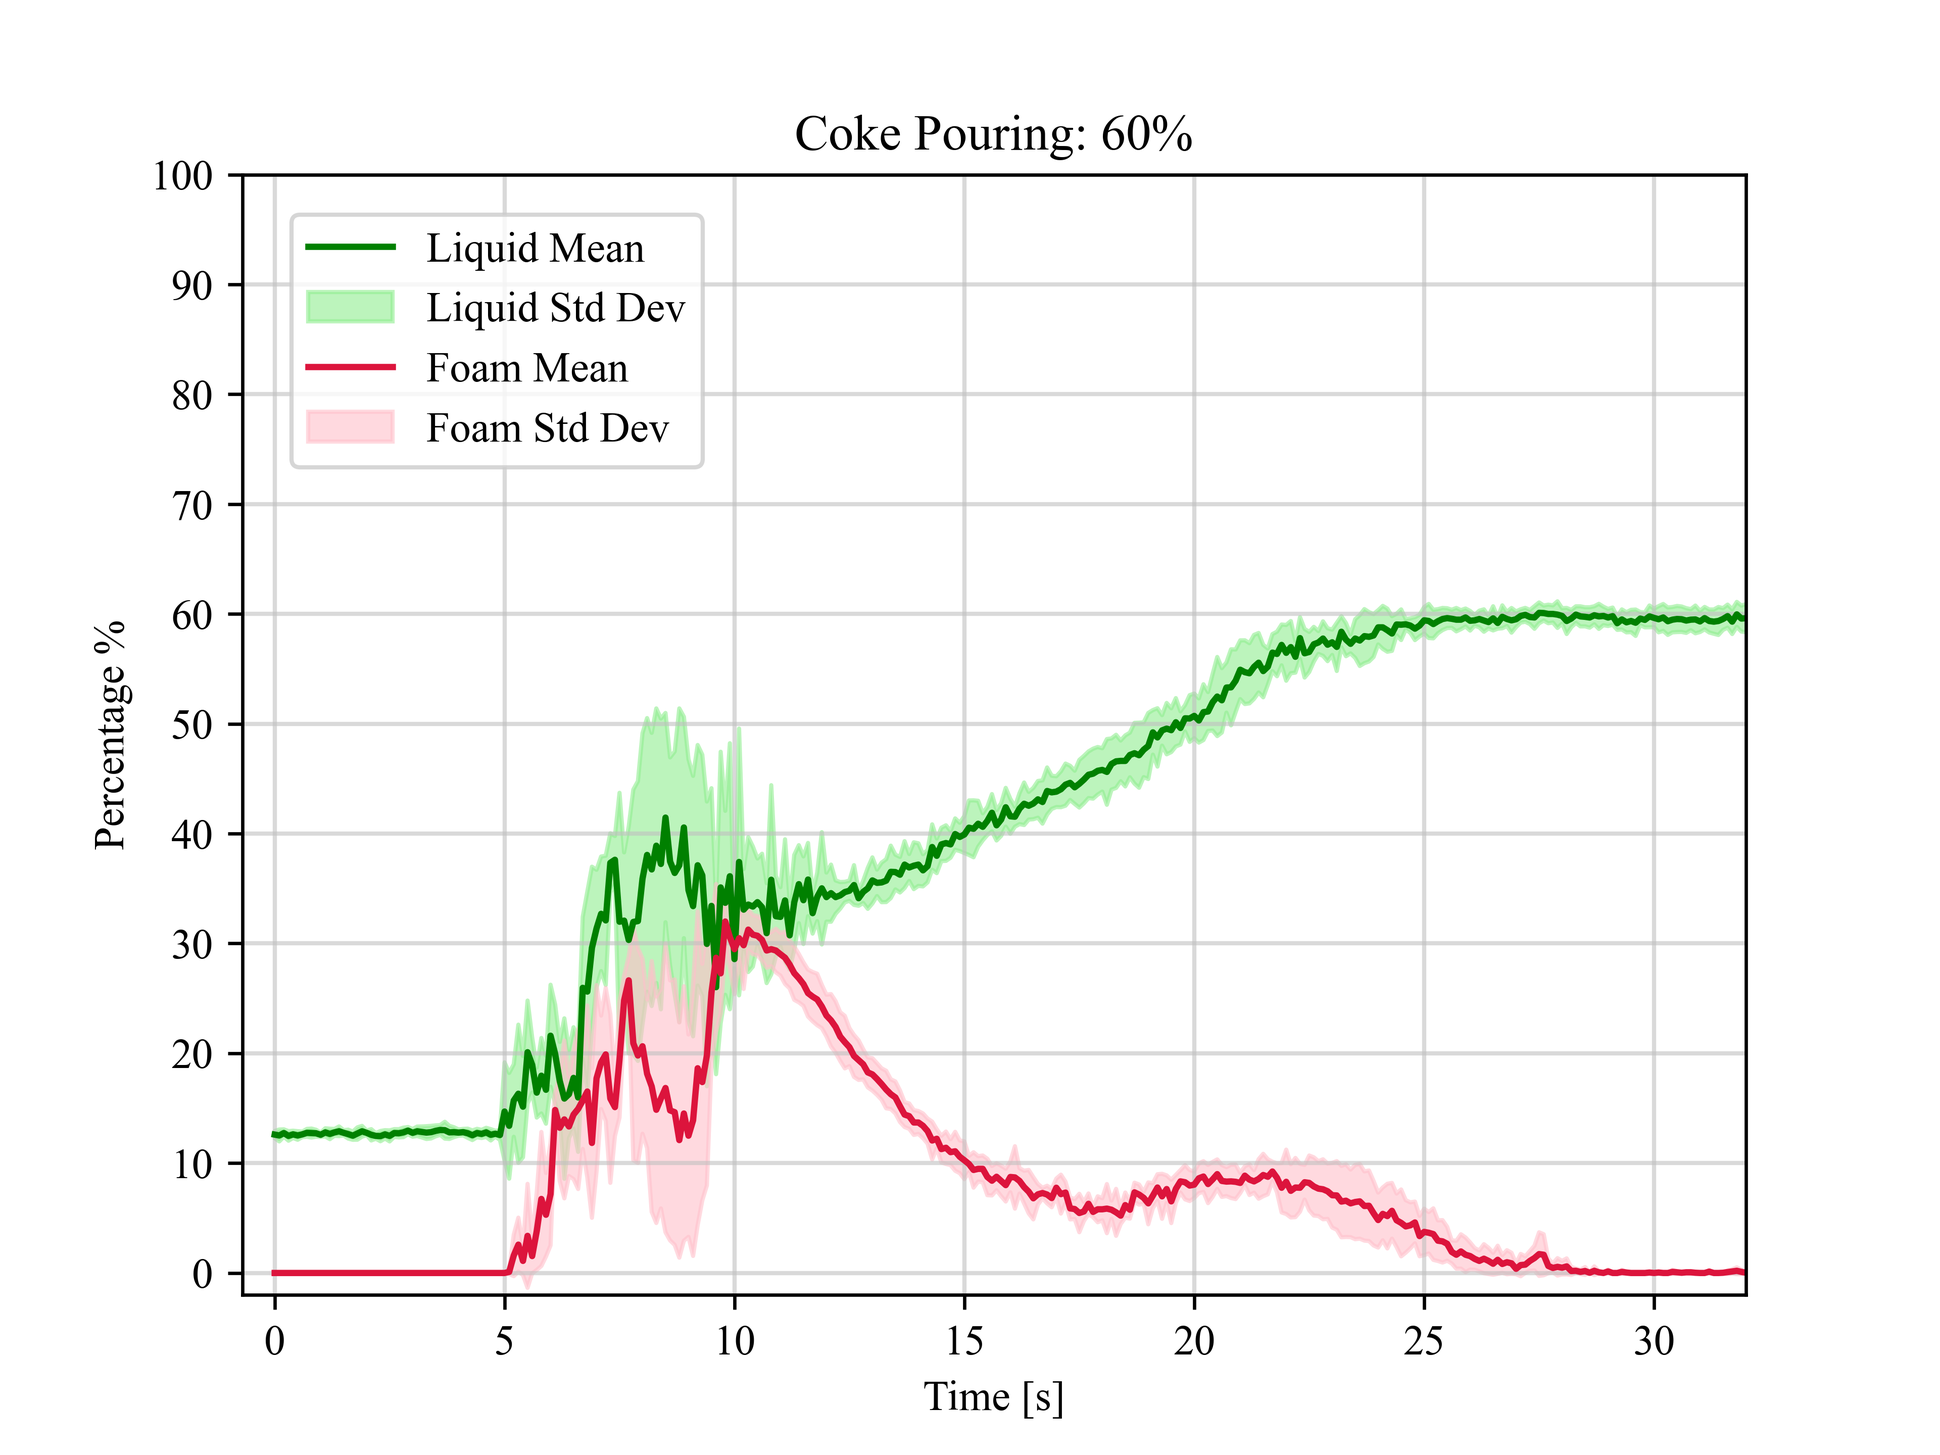
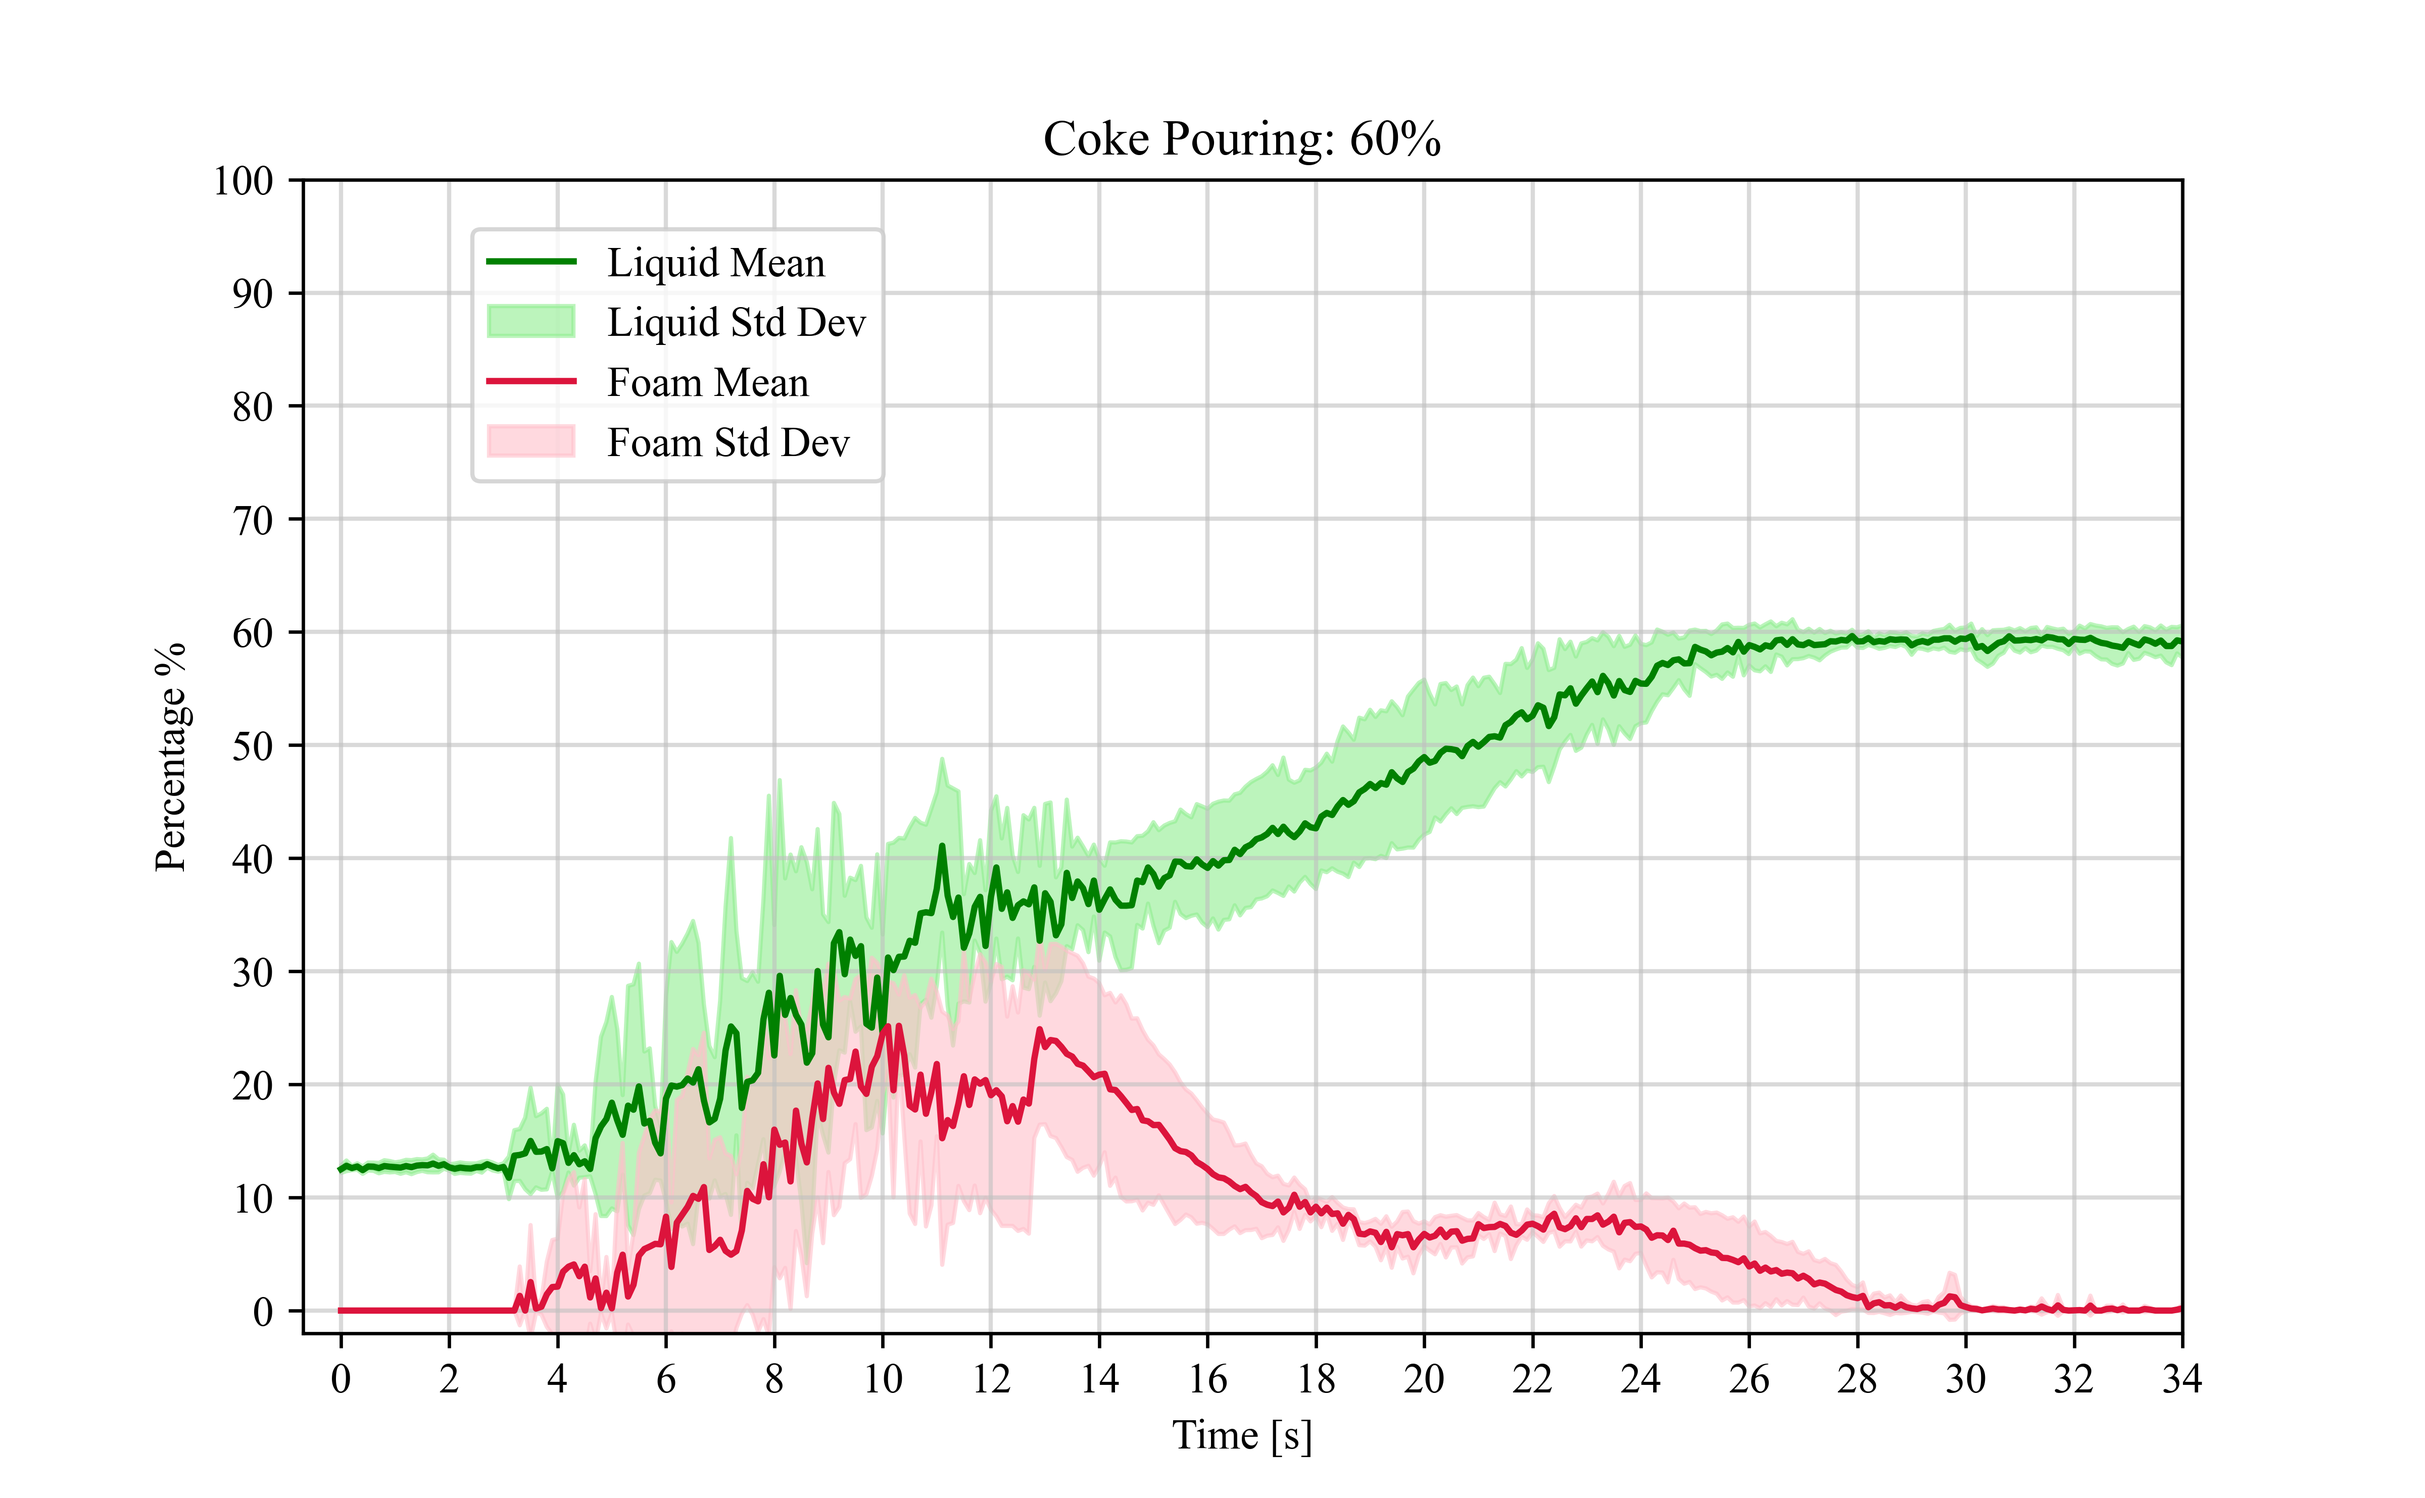
0.618 60% for present

diff --git a/data_visualizer_mean.py b/data_visualizer_mean.py
@@ -41,7 +41,7 @@ def csv_opener(filename):
                 y_current = float(row[2])
                 y_foam_current = float(row[3])
                 
-                if abs(y_current-y_before) >= 3 and x_current >= 75:
+                if abs(y_current-y_before) >= 2 and x_current >= 50:
                    y_current = y_before 
                 x.append(x_current)
                 y.append(y_current) 
@@ -49,7 +49,7 @@ def csv_opener(filename):
             
                 y_before = y_current
         
-        offset_factor = 180 # change for every %
+        offset_factor = 100 # change for every %
                 
         x = x[align_index - offset_factor :]
         y = y[align_index - offset_factor :]
@@ -64,7 +64,7 @@ def csv_opener(filename):
 def longest(y_big):
     return max(y_big, key=len)
     
-percent = 30
+percent = 60
 
 if percent == 30:
     x_1, y_1, y_1f = csv_opener('sorted/30/selected/Pouring_Data_2023-08-20 18-23-09.csv')
@@ -128,15 +128,18 @@ font2 = {'fontname': 'Times New Roman'}
 
 
 
-fig, ax = plt.subplots()
+
+
+# Desired width-to-height ratio
+width_to_height_ratio = 1.618123  # For example, 16:9 ratio
 
 # plt.rcParams.update({
 #     "text.usetex": True,
 #     "font.family": 'serif'
 # })
+fig, ax = plt.subplots(figsize=(8, 8 / width_to_height_ratio))    
     
-    
-ax.set_xlim(-0.7,78)# use 57 for 30%, and 38 for other percentages
+ax.set_xlim(-0.7,33)# use 57 for 30%, and 38 for other percentages
 ax.set_ylim(-2,100)
 
 ax.grid(color='silver', linestyle='-', linewidth=1, alpha = 0.6)
@@ -151,14 +154,13 @@ ax.fill_between(np.arange(x_plot[0],x_plot[-1]+0.1, 0.1), y_plotf - errorf, y_pl
 for label in (ax.get_xticklabels() + ax.get_yticklabels()):
     label.set_fontname('Times New Roman')
 
-ax.set_xticks(np.arange(0, 80, 10), **font2) 
+ax.set_xticks(np.arange(0, 35, 2), **font2) 
 ax.set_yticks(np.linspace(0, 100, num=11), **font2)
 ax.set_xlabel("Time [s]", **font2)
 ax.set_ylabel("Percentage %", **font2)
 ax.set_title("Coke Pouring: " + str(percent) + "%", **font2)
 
 ax.legend(prop={'family': 'Times New Roman'}, loc='lower right', bbox_to_anchor=(0.32,0.72))
-
 
 
 # Save and display the plot
